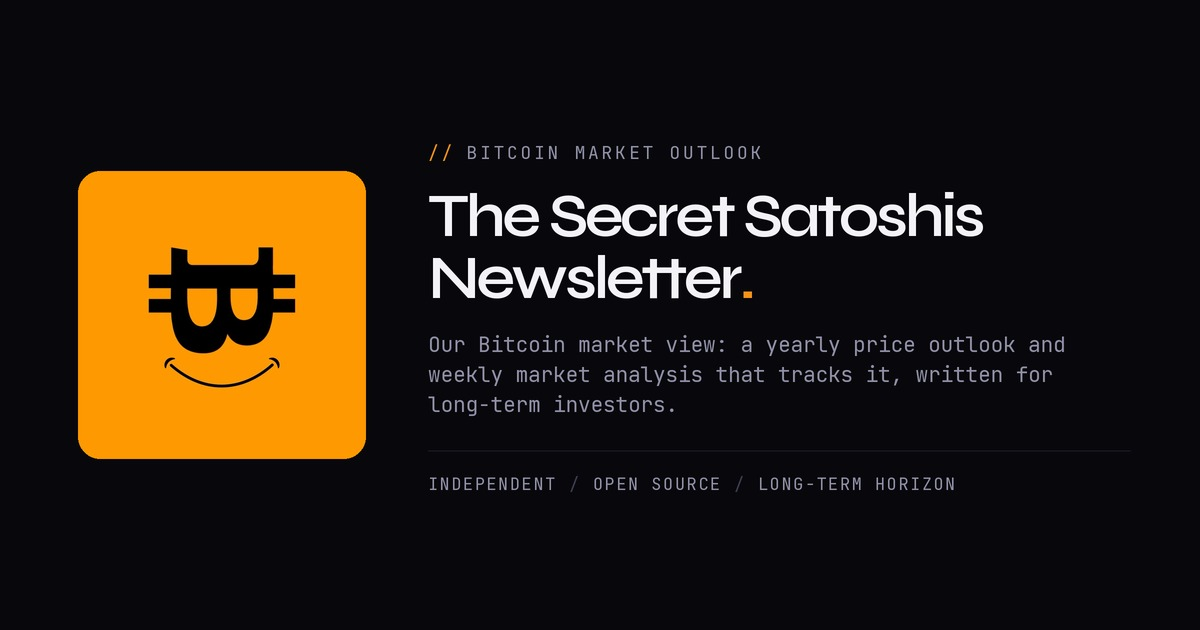
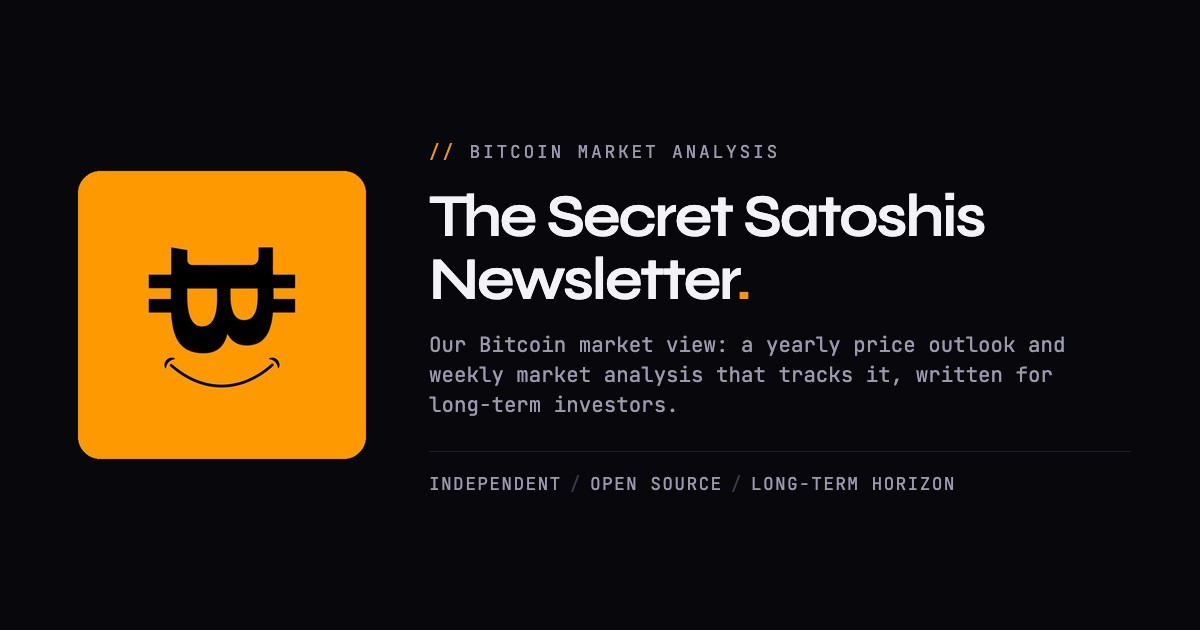
Align newsletter and Agent 21 branding with Bitcoin market analysis

diff --git a/index.html b/index.html
@@ -13,7 +13,7 @@
 <meta name="twitter:card" content="summary_large_image">
 <meta name="twitter:title" content="The Secret Satoshis Newsletter | Bitcoin Market Analysis">
 <meta name="twitter:description" content="The Secret Satoshis Newsletter publishes our Bitcoin market view: a yearly price outlook and weekly analysis that tracks it, for long-term investors.">
-<meta name="twitter:image" content="https://secretsatoshis.com/assets/images/social-card.jpg?v=3">
+<meta name="twitter:image" content="https://secretsatoshis.com/assets/images/social-card.jpg?v=4">
 <meta name="twitter:image:alt" content="The Secret Satoshis Newsletter: a yearly Bitcoin price outlook and weekly market analysis that tracks it">
 <meta name="twitter:site" content="@SecretSatoshis">
 <meta name="twitter:creator" content="@SecretSatoshis">
@@ -22,7 +22,7 @@
 <meta property="og:type" content="website">
 <meta property="og:url" content="https://secretsatoshis.com/">
 <meta property="og:locale" content="en_US">
-<meta property="og:image" content="https://secretsatoshis.com/assets/images/social-card.jpg?v=3">
+<meta property="og:image" content="https://secretsatoshis.com/assets/images/social-card.jpg?v=4">
 <meta property="og:image:width" content="1200">
 <meta property="og:image:height" content="630">
 <meta property="og:image:alt" content="The Secret Satoshis Newsletter: a yearly Bitcoin price outlook and weekly market analysis that tracks it">
@@ -149,7 +149,7 @@
 <!-- ═══ NEWSLETTER ═══ -->
 <section class="newsletter section-divider" id="newsletter">
   <div class="container newsletter-inner">
-    <p class="section-label"><span class="accent">//</span> Bitcoin Market Outlook</p>
+    <p class="section-label"><span class="accent">//</span> Bitcoin Market Analysis</p>
     <h2 class="newsletter-title">A Bitcoin price outlook, tracked in public.</h2>
     <p class="newsletter-sub">Our price scenarios, the assumptions behind them, and what changes our view.</p>
 

diff --git a/privacy.html b/privacy.html
@@ -14,10 +14,10 @@
 <meta property="og:title" content="Privacy | Secret Satoshis">
 <meta property="og:description" content="How the Secret Satoshis website handles information and third-party services.">
 <meta property="og:url" content="https://secretsatoshis.com/privacy.html">
-<meta property="og:image" content="https://secretsatoshis.com/assets/images/social-card.jpg?v=3">
+<meta property="og:image" content="https://secretsatoshis.com/assets/images/social-card.jpg?v=4">
 <meta property="og:image:alt" content="The Secret Satoshis Newsletter: a yearly Bitcoin price outlook and weekly market analysis that tracks it">
 <meta name="twitter:card" content="summary_large_image">
-<meta name="twitter:image" content="https://secretsatoshis.com/assets/images/social-card.jpg?v=3">
+<meta name="twitter:image" content="https://secretsatoshis.com/assets/images/social-card.jpg?v=4">
 <meta name="theme-color" content="#08080c">
 <link rel="icon" href="/favicon.ico" sizes="32x32">
 <link rel="icon" href="/assets/images/favicon.png" type="image/png" sizes="180x180">

diff --git a/agent21/components/agent21/landing/site-chrome.tsx b/agent21/components/agent21/landing/site-chrome.tsx
@@ -105,7 +105,7 @@ export function SiteFooter() {
               <span className="acc">{"//"}</span> SECRET SATOSHIS
             </a>
             <p className="ss-footer-tagline">
-              AI-native Bitcoin market intelligence
+              Bitcoin market analysis for long-term investors
             </p>
           </div>
           {FOOTER.map(([title, links]) => (
